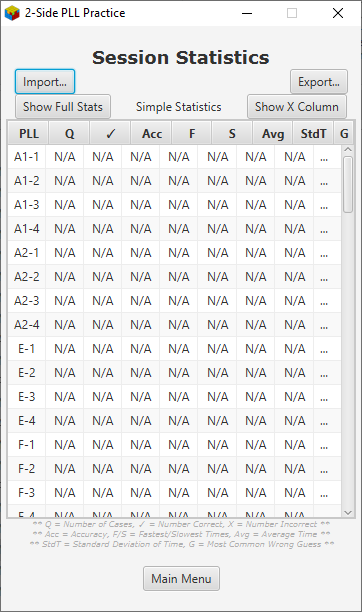
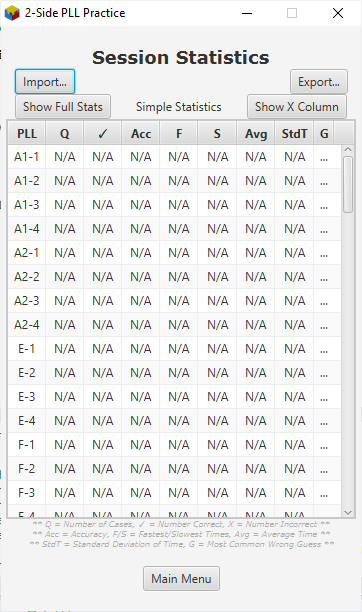
Added in notes for changes between Java8 and Java11 versions and retook a picture of session stats to make it look a bit better.

diff --git a/TwoSidePLLPractice/src/application/TwoSidePLLPractice.java b/TwoSidePLLPractice/src/application/TwoSidePLLPractice.java
@@ -13,7 +13,7 @@ import javafx.geometry.Pos;
 import javafx.stage.FileChooser;
 import javafx.stage.FileChooser.ExtensionFilter;
 import javafx.stage.Popup;
-import javafx.stage.PopupWindow;
+//import javafx.stage.PopupWindow;
 import javafx.stage.Stage;
 import javafx.scene.Scene;
 import javafx.scene.canvas.Canvas;
@@ -22,14 +22,14 @@ import javafx.scene.control.Button;
 import javafx.scene.control.CheckBox;
 import javafx.scene.control.CheckMenuItem;
 import javafx.scene.control.ComboBox;
-import javafx.scene.control.CustomMenuItem;
+//import javafx.scene.control.CustomMenuItem;
 import javafx.scene.control.Hyperlink;
 import javafx.scene.control.Label;
 import javafx.scene.control.Menu;
 import javafx.scene.control.MenuBar;
 import javafx.scene.control.MenuItem;
 import javafx.scene.control.ScrollPane;
-import javafx.scene.control.Slider;
+//import javafx.scene.control.Slider;
 import javafx.scene.control.TableColumn;
 import javafx.scene.control.TableView;
 import javafx.scene.control.TextField;
@@ -37,8 +37,8 @@ import javafx.scene.control.TitledPane;
 import javafx.scene.control.cell.PropertyValueFactory;
 import javafx.scene.image.Image;
 import javafx.scene.input.KeyCode;
-import javafx.scene.input.KeyCodeCombination;
-import javafx.scene.input.KeyCombination;
+//import javafx.scene.input.KeyCodeCombination;
+//import javafx.scene.input.KeyCombination;
 import javafx.scene.layout.BorderPane;
 import javafx.scene.layout.ColumnConstraints;
 import javafx.scene.layout.GridPane;
@@ -64,7 +64,15 @@ import java.util.NoSuchElementException;
 import java.util.Random;
 import java.util.Scanner;
 
-//Commented out imports were done so because they weren't used
+//Commented out imports that ended up not being used
+
+/*Changes between this and Java 8 release version:
+ * STRING.strip() methods are changed to STRING.trim()
+ * STRING.isBlank() methods are changed to STRING.trim().isEmpty()
+ * Added 10 to simpleGP and fullGP size due to a gap made from switching from java11 to java 8
+ * ALSO NOTE: the weird initial aligning of the first table shown since running the program in Session Stats is a bug in Java 8 FX. Not my fault
+   and not sure how to fix.
+*/
 
 public class TwoSidePLLPractice extends Application{
 
@@ -699,7 +707,7 @@ public class TwoSidePLLPractice extends Application{
 			if(!new_val.matches("\\d*")) {countBox.setText(new_val.replaceAll("[^\\d]", "")); new_val = countBox.getText();} //Gets Rid of Non-Numerical Characters
 			if(new_val.isEmpty()) {countBox.setText("0"); new_val = "0";} //WILL SET TO 0  IF NOTHING IS IN THE BOX
 			if(new_val.length() > 3) {countBox.setText(countBox.getText().substring(0, 3));} //to keep number at 3 digits MAX
-			if(Integer.parseInt(new_val) > 100) {countBox.setText("100");}//{new_val = "100";} //Sets the text field to 100 if number input is larger than that
+			if(Integer.parseInt(new_val) > 999) {countBox.setText("999");}//{new_val = "100";} //Sets the text field to 100 if number input is larger than that
 			if(new_val.charAt(0) == '0' && new_val.length() >= 2) {countBox.setText(countBox.getText().substring(1, new_val.length()));}
 		});
 		countBox.setPrefWidth(40);
@@ -2346,7 +2354,7 @@ public class TwoSidePLLPractice extends Application{
 //		double timerSize = 75*scale; //MODIFY THIS TO CHANGE THE SIZE OF THE TIMER //DEPRECATED
 		cubePen.setFill(Color.WHITE);
 //        cubePen.fillRect(40.0*cubeCanvas.getWidth()/100.0, 18.0*cubeCanvas.getHeight()/20.0, timerSize, 2.0*cubeCanvas.getHeight()/20.0); //DEPRECATED
-        cubePen.fillRect(0.0, 18.0*cubeCanvas.getHeight()/20.0, cubeCanvas.getWidth(), 2.0*cubeCanvas.getHeight()/20.0); //Fixed. Now should cover all values
+        cubePen.fillRect(0.0, 18.0*cubeCanvas.getHeight()/20.0, cubeCanvas.getWidth()-45, 2.0*cubeCanvas.getHeight()/20.0); //Fixed. Now should cover all values
         cubePen.setFill(Color.BLACK);
         cubePen.setFont(new Font(18.0*scale)); //test font size at 18
         cubePen.fillText(timeLabel.getText(), 45.0*cubeCanvas.getWidth()/100.0, 19.25*cubeCanvas.getHeight()/20.0); //MIGHT NEED TO DO SOMETHING TO MAKE DISPLAY 3 DECIMAL POINTS
